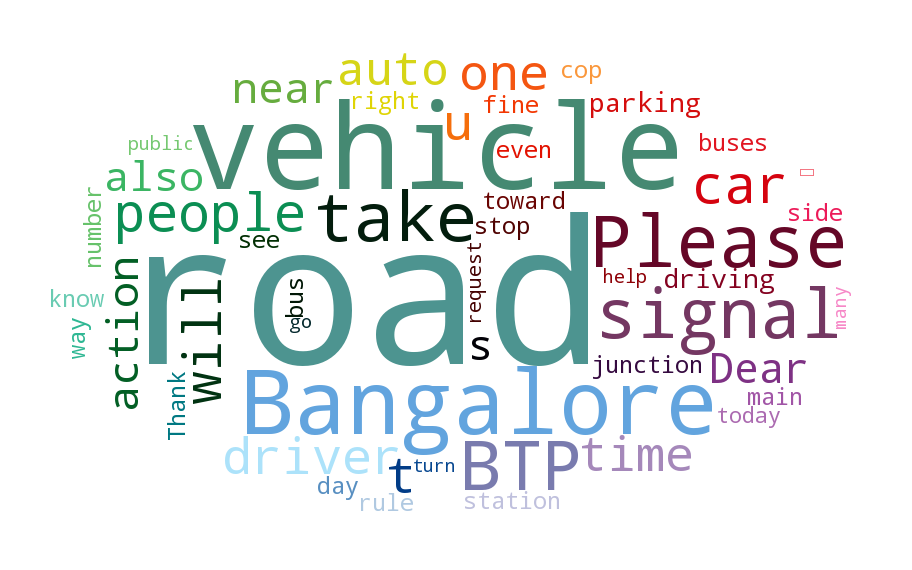
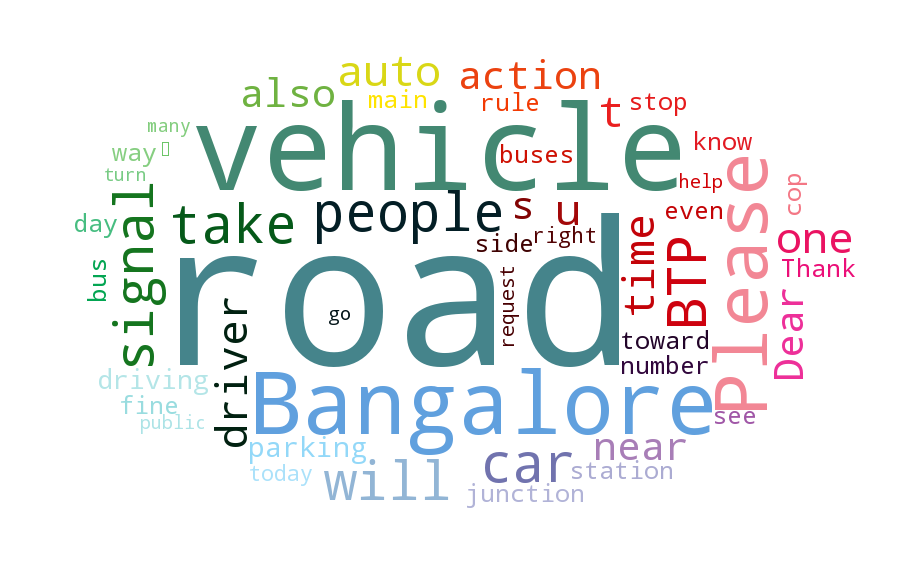
fixed ajax calls

Changed region(s): [[0.0614, 0.0895, 0.9518, 0.8947], [0.0614, 0.5667, 0.0921, 0.6263]]

diff --git a/police_dashboard/tool/static/tool/js/basic_jq.js b/police_dashboard/tool/static/tool/js/basic_jq.js
@@ -6,7 +6,7 @@ $(document).ready(function() {
 		    // var catid;
 		    pf="twitter"
 		    handle = $('#twitter-handle-name').html()
-		    comp_handle = $(this).html();
+		    comp_handle = $(this).find(".comp-fb-handle").text();
 		    $('#graph1-tw-loader').show();
 		    $.get('/main/graph_comp/',{handle_name:handle,comp_handle_name:comp_handle,platform:pf}, function(data){
 		               $('#graph1-twitter').html(data);
@@ -20,7 +20,7 @@ $(document).ready(function() {
 		    // var catid;
 		    pf="facebook"
 		    handle = $('#facebook-handle-name').html()
-		    comp_handle = $(this).html();
+		    comp_handle = $(this).find(".comp-fb-handle").text();
 		    $('#graph1-fb-loader').show();
 		    $.get('/main/graph_comp/',{handle_name:handle,comp_handle_name:comp_handle,platform:pf}, function(data){
 		               $('#graph1-facebook').html(data);

diff --git a/police_dashboard/tool/static/tool/js/m_graph.js b/police_dashboard/tool/static/tool/js/m_graph.js
@@ -112,7 +112,7 @@ function renderGraph(data,div_name){
       xScale.domain(d3.extent(data, function(d) { return d.date; })); // extent = highest and lowest points, domain is data, range is bouding box
 
       maxY=findMaxY(categories)
-      console.log(maxY)
+      // console.log(maxY)
       yScale.domain([0, maxY
         //d3.max(categories, function(c) { return d3.max(c.values, function(v) { return v.rating; }); })
       ]);

diff --git a/police_dashboard/tool/views.py b/police_dashboard/tool/views.py
@@ -39,9 +39,9 @@ def dashboard(request,handle):
 	comp_div_facebook1=""
 	pick_div=""
 	for key in comp_list_tw.keys():
-		comp_div_twitter1=comp_div_twitter1+'<li><a class="compare-to-graph1-twitter" href="#">'+comp_list_tw[key][0]+'</a></li>'
+		comp_div_twitter1=comp_div_twitter1+'<li><a class="compare-to-graph1-twitter" href="#">'+comp_list_tw[key][0]+'<div class="comp-fb-handle" style="display:none">'+key+'</div></a></li>'
 	for key in comp_list_fb.keys():
-		comp_div_facebook1=comp_div_facebook1+'<li><a class="compare-to-graph1-facebook" href="#">'+comp_list_fb[key][0]+'</a></li>'
+		comp_div_facebook1=comp_div_facebook1+'<li><a class="compare-to-graph1-facebook" href="#">'+comp_list_fb[key][0]+'<div class="comp-fb-handle" style="display:none">'+key+'</div></a></li>'
 		pick_div=pick_div+'<li><a class="pick-account" href="../'+key+'/">'+comp_list_fb[key][0]+'</a></li>'
 
 	word="why"
@@ -106,19 +106,40 @@ def graph_comp(request):
 	platform=request.GET['platform']
 	if request.method == 'GET':
 		handle = request.GET['handle_name']
-		filename1 = os.path.join(BASE_DIR, 'tool/data/tweets_'+handle+'.json')
-		data1 = fileParser(filename1)
-		series1 = parseData(data1,filename1)
-		graph_data1=getGraphData(series1)
-		
 		comp_handle = request.GET['comp_handle_name']
-		filename2 = os.path.join(BASE_DIR, 'tool/data/tweets_'+comp_handle[1:]+'.json')
-		data2 = fileParser(filename2)
-		series2 = parseData(data2,filename2)
-		graph_data2=getGraphData(series2)
+			
+		series1={}
+		series2={}
+
+		if platform=="twitter":
+			(title,tw_handle)=getTitle(handle,"")
+			filename1 = os.path.join(BASE_DIR, 'tool/data/tweets_'+tw_handle+'.json')
+			data1 = fileParser(filename1)
+			series1 = parseData(data1,filename1)
+			
+			(title,tw_comp_handle)=getTitle(comp_handle,"")
+			filename2 = os.path.join(BASE_DIR, 'tool/data/tweets_'+tw_comp_handle+'.json')
+			data2 = fileParser(filename2)
+			series2 = parseData(data2,filename2)
+
+			handle=tw_handle
+			comp_handle=tw_comp_handle
+
+			# print handle+" "+comp_handle
+		else:
+			data_fb = getData(handle)
+			series1 = parseFBData(data_fb)
+
+			data_fb_comp = getData(comp_handle)
+			series2 = parseFBData(data_fb_comp)
+
+			# print handle+" "+comp_handle
+
+		graph_data1=getGraphData(series1,platform)
+		graph_data2=getGraphData(series2,platform)
 		
 		d3graph=chartD3LineVS(graph_data1,graph_data2,platform,handle,comp_handle)
-		print d3graph
+		# print d3graph
 	return HttpResponse(d3graph)
 
 def victimzn_tree(request):
@@ -127,8 +148,12 @@ def victimzn_tree(request):
 	if request.method == 'GET':
 		platform=request.GET['platform']
 		handle = request.GET['handle_name']
-		filename = os.path.join(BASE_DIR, 'tool/data/tweets_'+handle+'.json')
-		data = fileParser(filename)
+		if platform=="twitter":
+			(title,tw_handle)=getTitle(handle,"")
+			filename = os.path.join(BASE_DIR, 'tool/data/tweets_'+tw_handle+'.json')
+			data = fileParser(filename)
+		else:
+			data = getData(handle)
 		word = request.GET['keyword']
 		text_array=parseText(data,platform)
 		tree=wordTree(text_array=text_array,name="wordtree_"+platform,word=word,kind="ajax")
@@ -141,9 +166,13 @@ def word_cloud(request):
 	if request.method == 'GET':
 		platform=request.GET['platform']
 		handle = request.GET['handle_name']
-		filename = os.path.join(BASE_DIR, 'tool/data/tweets_'+handle+'.json')
-		data = fileParser(filename)
-		
+		if platform=="twitter":
+			(title,tw_handle)=getTitle(handle,"")
+			filename = os.path.join(BASE_DIR, 'tool/data/tweets_'+tw_handle+'.json')
+			data = fileParser(filename1)
+		else:
+			data = getData(handle)
+
 		word = request.GET['keyword']
 		text_array=parseText(data,platform)
 		(cloud,cloud_list)=wordCloud(text_array=text_array,name="wordcloud_"+platform,keyword=word)

diff --git a/police_dashboard/tool/functions/graphing.py b/police_dashboard/tool/functions/graphing.py
@@ -43,7 +43,6 @@ def chartD3Line(data,name,handle):
 	return div+script 
 
 def chartD3LineVS(data1,data2,name,handle1,handle2):
-	handle2=handle2[1:]
 
 	fb=['posts','likes','comments']
 	tw=['tweets','retweets','favs']
